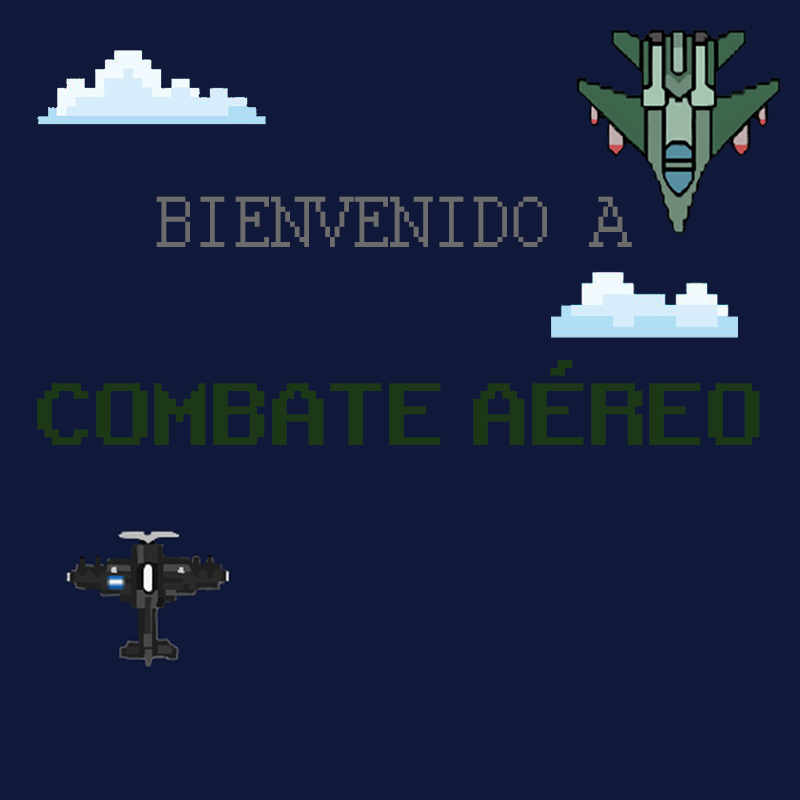
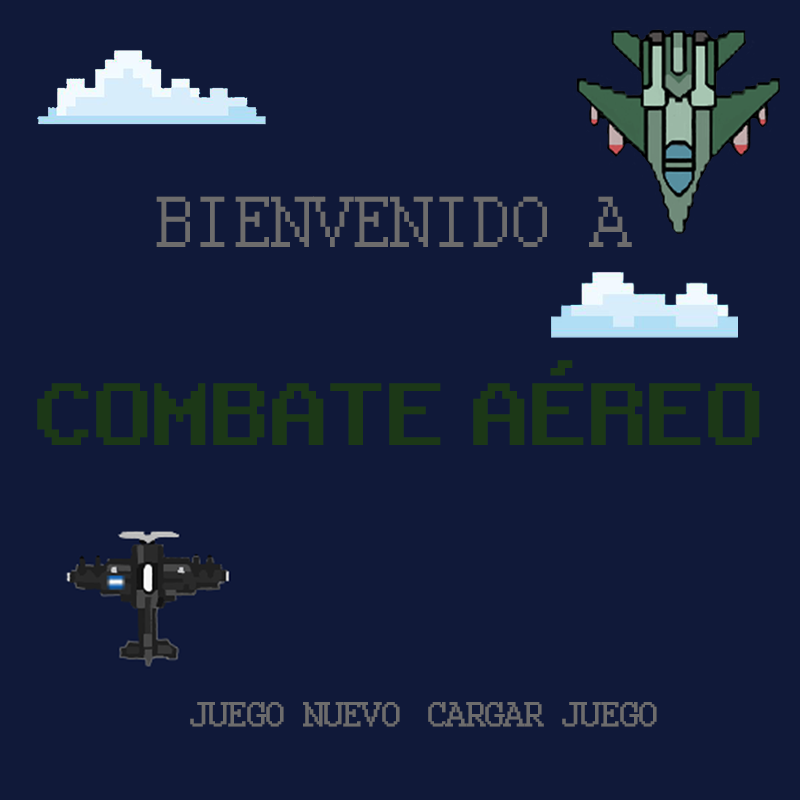
AcesoInicial100%Ok

Changed region(s): [[0.5312, 0.875, 0.8438, 0.9062], [0.25, 0.875, 0.5, 0.9062]]

diff --git a/inicio.py b/inicio.py
@@ -9,7 +9,7 @@ class Inicio():
     def dibujar0(self, pantalla, event):      #InicioGeneral
         self.fondo=pygame.image.load("img/Bienvenido.png")
         self.color=(255,255,255)
-        self.seleccionAncho=160
+        self.seleccionAncho=190
         self.seleccionAlto=5
         self.seleccionX=200
         self.seleccionY=730
@@ -23,7 +23,7 @@ class Inicio():
 
         self.seleccion= pygame.draw.rect(pantalla, self.color, (self.seleccionX, self.seleccionY, self.seleccionAncho, self.seleccionAlto))
 
-    def dibujar1(self, pantalla, texto, posX,validacion):           #InicioJugadorNuevo
+    def dibujar1(self, pantalla, texto, posX, posY, validacion):           #InicioJugadorNuevo
         self.texto=texto
         self.validacion="- Ingrese un nombre para continuar -"
         self.color=(255,255,255)
@@ -44,25 +44,142 @@ class Inicio():
             self.seleccionX=358
         if posX ==3:
             self.seleccionX=585
+        if posY ==1:
+            self.seleccionY=380
+        if posY ==2:
+            self.seleccionY=40
+            self.seleccionX=60
 
 
         pantalla.blit(self.fondo, [0, 0])
         pantalla.blit(self.renderNombre,(250,200))
+
         if not validacion:
-            pantalla.blit(self.renderValidacion,[150,50])
+            pantalla.blit(self.renderValidacion,[150,100])
 
         self.seleccion= pygame.draw.rect(pantalla, self.color, (self.seleccionX, self.seleccionY, self.seleccionAncho, self.seleccionAlto))
         
 
 
-    def dibujar2(self, pantalla, texto):           #InicioSeleccionJugador
-        self.acceso.buscarJugador(texto)
-        self.fondo=pygame.image.load("img/dia.png")
+    def dibujar2(self, pantalla, texto, posX, validacion, busqueda, posBusquedaY):           #InicioSeleccionJugador
+        self.texto=texto
+        self.fondo=pygame.image.load("img/noche.png")
         self.fuente=pygame.font.SysFont("Courier", 30, bold=True)
-        
+        self.validacion="- Ingrese el nombre de su piloto -"
+        self.fuenteChica=pygame.font.SysFont("Courier", 25, bold=True)
+        self.renderValidacion= self.fuenteChica.render(self.validacion, True, (200,200,200), (16,25,57) )
+        self.color=(255,255,255)
+        self.seleccionAncho=100
+        self.seleccionAlto=5
+        self.seleccionX=60
+        self.seleccionY=650
+        self.renderNombre= self.fuente.render(self.texto, True, (200,200,200), (16,25,57) )
+        self.busqueda= None
+        self.texto=' '
+        self.puesto1=''
+        self.puesto2=''
+        self.puesto3=''
+        self.aux=0
+        self.aux1=''
+        self.aux2=''
+        self.aux3=''
+        self.contAux=0
+        self.contador=1
+        self.seleccionBusquedaY=405
+        self.seleccionBusquedaX=220
+        self.avionOk=0
+        self.nombreBusqueda=''
+        self.nombreCarga=''
 
-        #self.renderNombre= self.fuente.render(texto, True, (200,200,200), (16,25,57) )
-        pantalla.blit(self.fondo,(0,0))
+        if busqueda:
+
+            self.busqueda=str(self.acceso.buscarJugador(texto))
+            self.aux=self.acceso.buscarJugador(texto)
+            self.aux1=self.aux[posBusquedaY-1]
+            self.nombreCarga=self.aux1[0]
+            self.avionOk=self.aux1[1]
+
+            for i in self.busqueda:
+                if not i =='[' and not i =='(' and not i ==',' and not i ==')' and not i ==']' and not i =="'":
+                    self.texto=self.texto + i
+                elif i == ',' and self.bandera:
+                    self.texto=self.texto + ' - '
+                    self.bandera=False
+                elif i == ')':
+                    self.texto = self.texto +'\n'
+                elif i =='(':
+                    self.bandera=True
+
+            for i in self.texto:
+                if not i=='\n' and self.contador==1:
+                    
+                    if i==' ' and self.contAux==0:
+                        self.aux1=self.puesto1
+                        self.contAux=1
+
+                    self.puesto1+=i
+
+                if not i=='\n' and self.contador==2:
+
+                    if i==' ' and self.contAux==1:
+                        self.aux2=self.puesto2
+                        self.contAux=2
+
+                    self.puesto2+=i
+
+                if not i=='\n' and self.contador==3:
+
+                    if i==' ' and self.contAux==2:
+                        self.aux3=self.puesto3
+                        self.contAux=3
+
+                    self.puesto3+=i
+
+
+                if i=='\n':
+                    self.contador+=1
+                
+
+            if posBusquedaY==1:
+                self.nombreBusqueda=self.aux1
+
+            if posBusquedaY==2:
+                self.nombreBusqueda=self.aux2
+
+            if posBusquedaY==3:
+                self.nombreBusqueda=self.aux3
+
+
+        if posX==1:
+            self.seleccionX=50
+        if posX==2:
+            self.seleccionX=650
+
+        if posBusquedaY==1:
+            self.seleccionBusquedaY=405
+        if posBusquedaY==2 and not self.puesto2=='':
+            self.seleccionBusquedaY=485
+        if posBusquedaY==3 and not self.puesto3=='':
+            self.seleccionBusquedaY=565
+
+        pantalla.blit(self.fondo, [0, 0])
+        pantalla.blit(self.renderNombre,(250,200))
+
+        self.puesto1R= self.fuente.render(self.puesto1, True, (200,200,200), (16,25,57) )
+        self.puesto2R= self.fuente.render(self.puesto2, True, (200,200,200), (16,25,57) )
+        self.puesto3R= self.fuente.render(self.puesto3, True, (200,200,200), (16,25,57) )
+
+        pantalla.blit(self.puesto1R,(240,400))
+        pantalla.blit(self.puesto2R,(240,480))
+        pantalla.blit(self.puesto3R,(240,560))
+
+        if not validacion:
+            pantalla.blit(self.renderValidacion,[150,50])
+        
+        self.seleccion= pygame.draw.rect(pantalla, self.color, (self.seleccionX, self.seleccionY, self.seleccionAncho, self.seleccionAlto))
+        if busqueda:
+            self.seleccionBusqueda= pygame.draw.rect(pantalla, self.color, (self.seleccionBusquedaX, self.seleccionBusquedaY, self.seleccionAncho-70, self.seleccionAlto+15))
+
 
     def dibujar3(self, pantalla):       #cargarJuego-ListarRanking
 
@@ -110,11 +227,11 @@ class Inicio():
         self.puesto5R= self.fuente.render(self.puesto5, True, (200,200,200), (16,25,57) )
 
         pantalla.blit(self.fondo,(0,0))
-        pantalla.blit(self.puesto1R,(240,100))
+        pantalla.blit(self.puesto1R,(240,250))
         pantalla.blit(self.puesto2R,(240,300))
-        pantalla.blit(self.puesto3R,(240,200))
+        pantalla.blit(self.puesto3R,(240,350))
         pantalla.blit(self.puesto4R,(240,400))
-        pantalla.blit(self.puesto5R,(240,500))
+        pantalla.blit(self.puesto5R,(240,450))
               
                
     def guardar(self, accion, nombreJugador, seleccionado, id):
@@ -130,10 +247,6 @@ class Inicio():
             self.string=self.eliminar
 
         self.acceso.ejecutarAccion(self.string)
-
-    def buscar(self, nombreJugador):
-        
-        pass
 
     def __del__(self):
         self.acceso.conexion.close()

diff --git a/main.py b/main.py
@@ -14,13 +14,18 @@ inicioBandera=False
 vidaJugador = True
 texto=''
 posX=1
+posY=1
+posBusquedaY=1
+avionSeleccionado=0
 validacionNombre=False
+busqueda=False
 dia= True
 colisiones=0
 colision=False
 mapa= Mapa()
 mapa.setearMapa(dia)
 jugador=Jugador()
+jugadorIdHistorial=None
 nubes=Nubes()
 misil1=Misil1()
 misil2=Misil2()
@@ -58,12 +63,13 @@ while vidaJugador:
                 if event.key == pygame.K_RETURN:
                     if inicio.seleccionX==440:
                         inicioContador+=2
+                        posX=1
+                        posY=1
                     elif inicio.seleccionX==200:
                         inicioContador+=1
 
     elif inicioContador==1:
-
-        inicio.dibujar1(pantalla, texto, posX, validacionNombre)
+        inicio.dibujar1(pantalla, texto, posX, posY, validacionNombre)
 
         for event in pygame.event.get():
             if event.type == pygame.QUIT:
@@ -73,6 +79,9 @@ while vidaJugador:
                     if validacionNombre:
                         inicioContador+=2
                         inicio.guardar('1', texto, posX, '0')
+                    if posY==2:
+                        inicioContador-=1
+                        texto=''
                 
                 if event.key == pygame.K_LEFT:
                     if posX==2 or posX==3:
@@ -80,30 +89,64 @@ while vidaJugador:
                 if event.key == pygame.K_RIGHT:
                     if posX ==1 or posX==2:
                         posX+=1
+                if event.key == pygame.K_UP:
+                    if posY==1:
+                        posY=2
+                if event.key == pygame.K_DOWN:
+                    if posY==2:
+                        posY=1
 
                 if event.key == pygame.K_BACKSPACE:
                     texto = texto[:-1]
                 elif not event.key==pygame.K_RETURN:
                     texto += event.unicode      
-            if not texto=='':                                   #####seguir desde acá, máximo de caracteres=10 -- hacer validacion
+            if not texto=='':                                 #####seguir desde acá, máximo de caracteres=10 , nomberesDiferentes-- hacer validacion
                 validacionNombre=True
             if texto=='':
                 validacionNombre=False
-
+        avionSeleccionado=posX
             
     elif inicioContador==2:
-        inicio.dibujar2(pantalla, texto)
+        inicio.dibujar2(pantalla, texto, posX, validacionNombre, busqueda, posBusquedaY)
+
         for event in pygame.event.get():
             if event.type == pygame.QUIT:
                 vidaJugador = False
             if event.type == pygame.KEYDOWN:
                 if event.key == pygame.K_RETURN:
-                    inicioContador+=1
+                    if posX==2:
+                        inicioContador-=2
+                    else:
+                        if not busqueda:
+                            busqueda=True
+
+                        else:
+                            inicioContador+=1
+                            texto=inicio.nombreCarga
+                            avionSeleccionado=inicio.avionOk
+
+                if event.key == pygame.K_LEFT:
+                    if posX==2:
+                        posX=1
+                if event.key == pygame.K_RIGHT:
+                    if posX ==1:
+                        posX=2
+                if event.key == pygame.K_UP:
+                    if posBusquedaY==2 or posBusquedaY==3:
+                        posBusquedaY-=1
+                if event.key == pygame.K_DOWN:
+                    if posBusquedaY==1 or posBusquedaY==2:
+                        posBusquedaY+=1
 
                 if event.key == pygame.K_BACKSPACE:
                     texto = texto[:-1]
-                else:
-                    texto += event.unicode
+                elif not event.key==pygame.K_RETURN:
+                    texto += event.unicode   
+            
+            if not texto=='':
+                validacionNombre=True
+            if texto=='':
+                validacionNombre=False
     
     elif inicioContador==3:
         inicio.dibujar3(pantalla)
@@ -121,7 +164,7 @@ while vidaJugador:
         mapa.marcador(pantalla, 1, jugador.puntos)
 
         if inicioBandera:
-            jugador.setearJugador(texto,posX)
+            jugador.setearJugador(texto,avionSeleccionado)
             del inicio
             inicioBandera=False
 

diff --git a/accesoDatos.py b/accesoDatos.py
@@ -41,7 +41,7 @@ class AccesoDatos:
             try:
                 self.nombre=nombreJugador
                 self.cursor=self.conexion.cursor()
-                self.cursor.execute(f"select nombre, id_avion from historial where nombre like '%{self.nombre}%';")
+                self.cursor.execute(f"select nombre, id_avion from historial where nombre like '%{self.nombre}%' limit 3;")
                 self.respuesta=self.cursor.fetchall()
                 return self.respuesta
 
@@ -50,26 +50,25 @@ class AccesoDatos:
                 print(f'Fallo: {ex}')
 
     def buscarAvion(self, seleccion):
+        self.seleccion=seleccion
         if self.conexion.is_connected():
             try:
                 self.cursor=self.conexion.cursor()
-                self.cursor.execute(f"select * from aviones where id={seleccion};")
+                self.cursor.execute(f"select * from aviones where id={self.seleccion};")
                 self.respuesta=self.cursor.fetchone()
                 return self.respuesta
-                print(self.respuesta)
 
+            except Error as ex:
+                print(f'Fallo: {ex}')
+    
+    def buscarAvionJugador(self, nombre):
+        if self.conexion.is_connected():
+            try:
+                self.cursor=self.conexion.cursor()
+                self.cursor.execute(f"select id_avion from historial where nombre='{nombre}';")
+                self.respuesta=self.cursor.fetchone()
+                return self.respuesta
 
             except Error as ex:
                 print(f'Fallo: {ex}')
             
-
-############------Pruebas
-
-
-#agregar="insert into historial (nombre,id_avion,historialPuntos,mejorPuntaje) value ('Jugador6',2,80,140);"
-#modificar="UPDATE historial SET nombre = 'JugadorX' WHERE id=5;"
-#eliminar="delete from historial where id=9;"
-#acceso=AccesoDatos()
-#acceso.ejecutarAccion(agregar)
-#print(acceso.buscarAvion(2))
-

diff --git a/jugador.py b/jugador.py
@@ -17,8 +17,8 @@ class Jugador():
         self.BanderaImpacto=True
 
     def setearJugador(self,nombre,seleccion):
-        self.nombre=nombre
-        self.seleccion=int(seleccion)
+        self.nombre=nombre                              ######################################## REVISAR
+        self.seleccion=seleccion
         self.caracteristicas=self.accesoDatos.buscarAvion(seleccion)
         self.velocidadMovimiento=self.caracteristicas[2]
         self.velocidadDisparo=self.caracteristicas[3]
